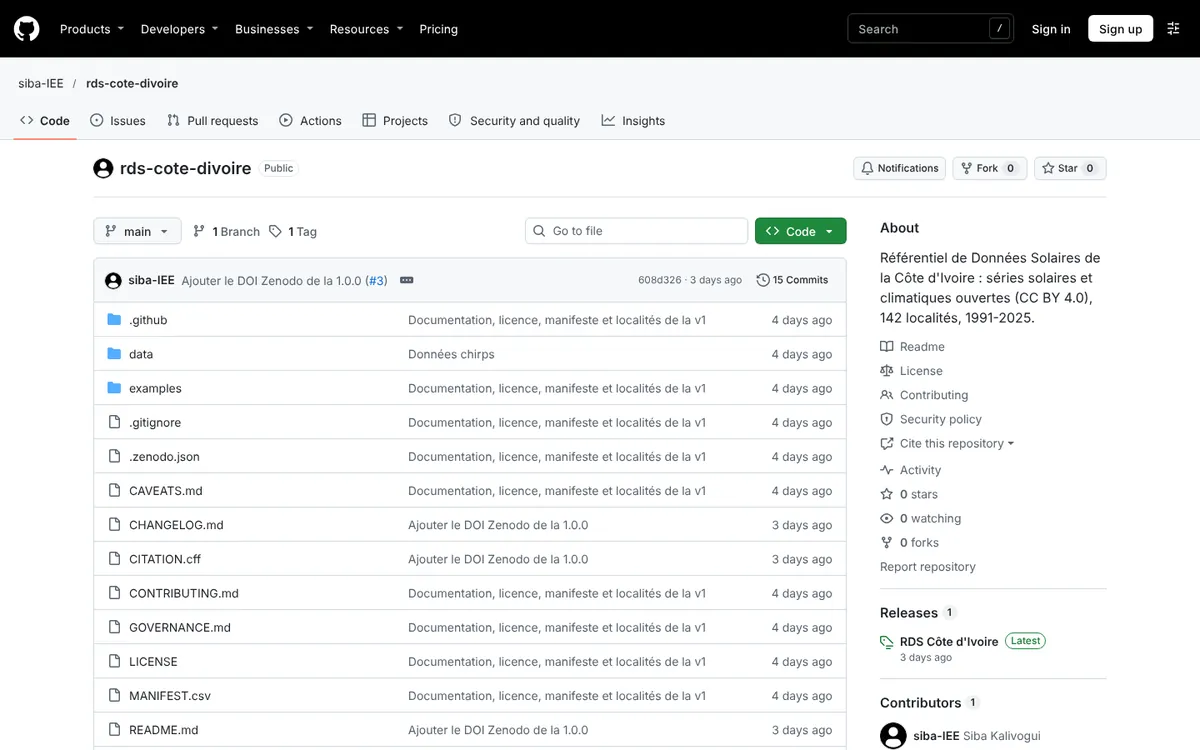
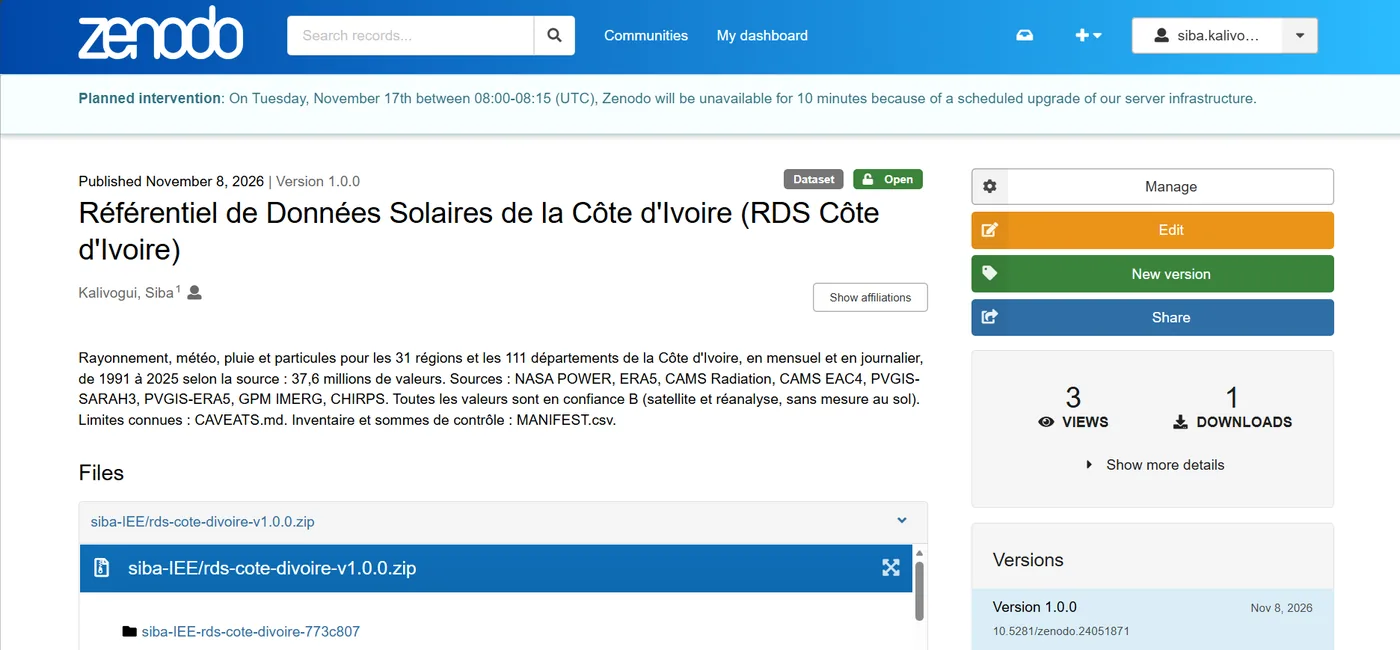
Captures fournies : RNDE, RDS Cote d'Ivoire, Kuma Data Core, prepublication
Claude-Session: https://claude.ai/code/session_017XJ8MGDJjFiZ1Dgj1nkVpe

diff --git a/src/lib/content.ts b/src/lib/content.ts
@@ -280,6 +280,8 @@ export interface Research {
   questionsEn: string[];
   /** Lien vers l'article / le DOI si publié. Optionnel. */
   url?: string;
+  /** Capture de la page de dépôt (chemin sous /public). Optionnel. */
+  preview?: string;
 }
 
 const researchModules = import.meta.glob<{ default: Research }>('../content/recherche/*.json', {

diff --git a/src/styles/pages.css b/src/styles/pages.css
@@ -88,9 +88,9 @@
   display: block;
   width: 100%;
   height: auto;
-  aspect-ratio: 16 / 10;
+  aspect-ratio: 16 / 9;
   object-fit: cover;
-  object-position: top;
+  object-position: left top;
   transition: transform 0.9s cubic-bezier(0.22, 1, 0.36, 1);
 }
 
